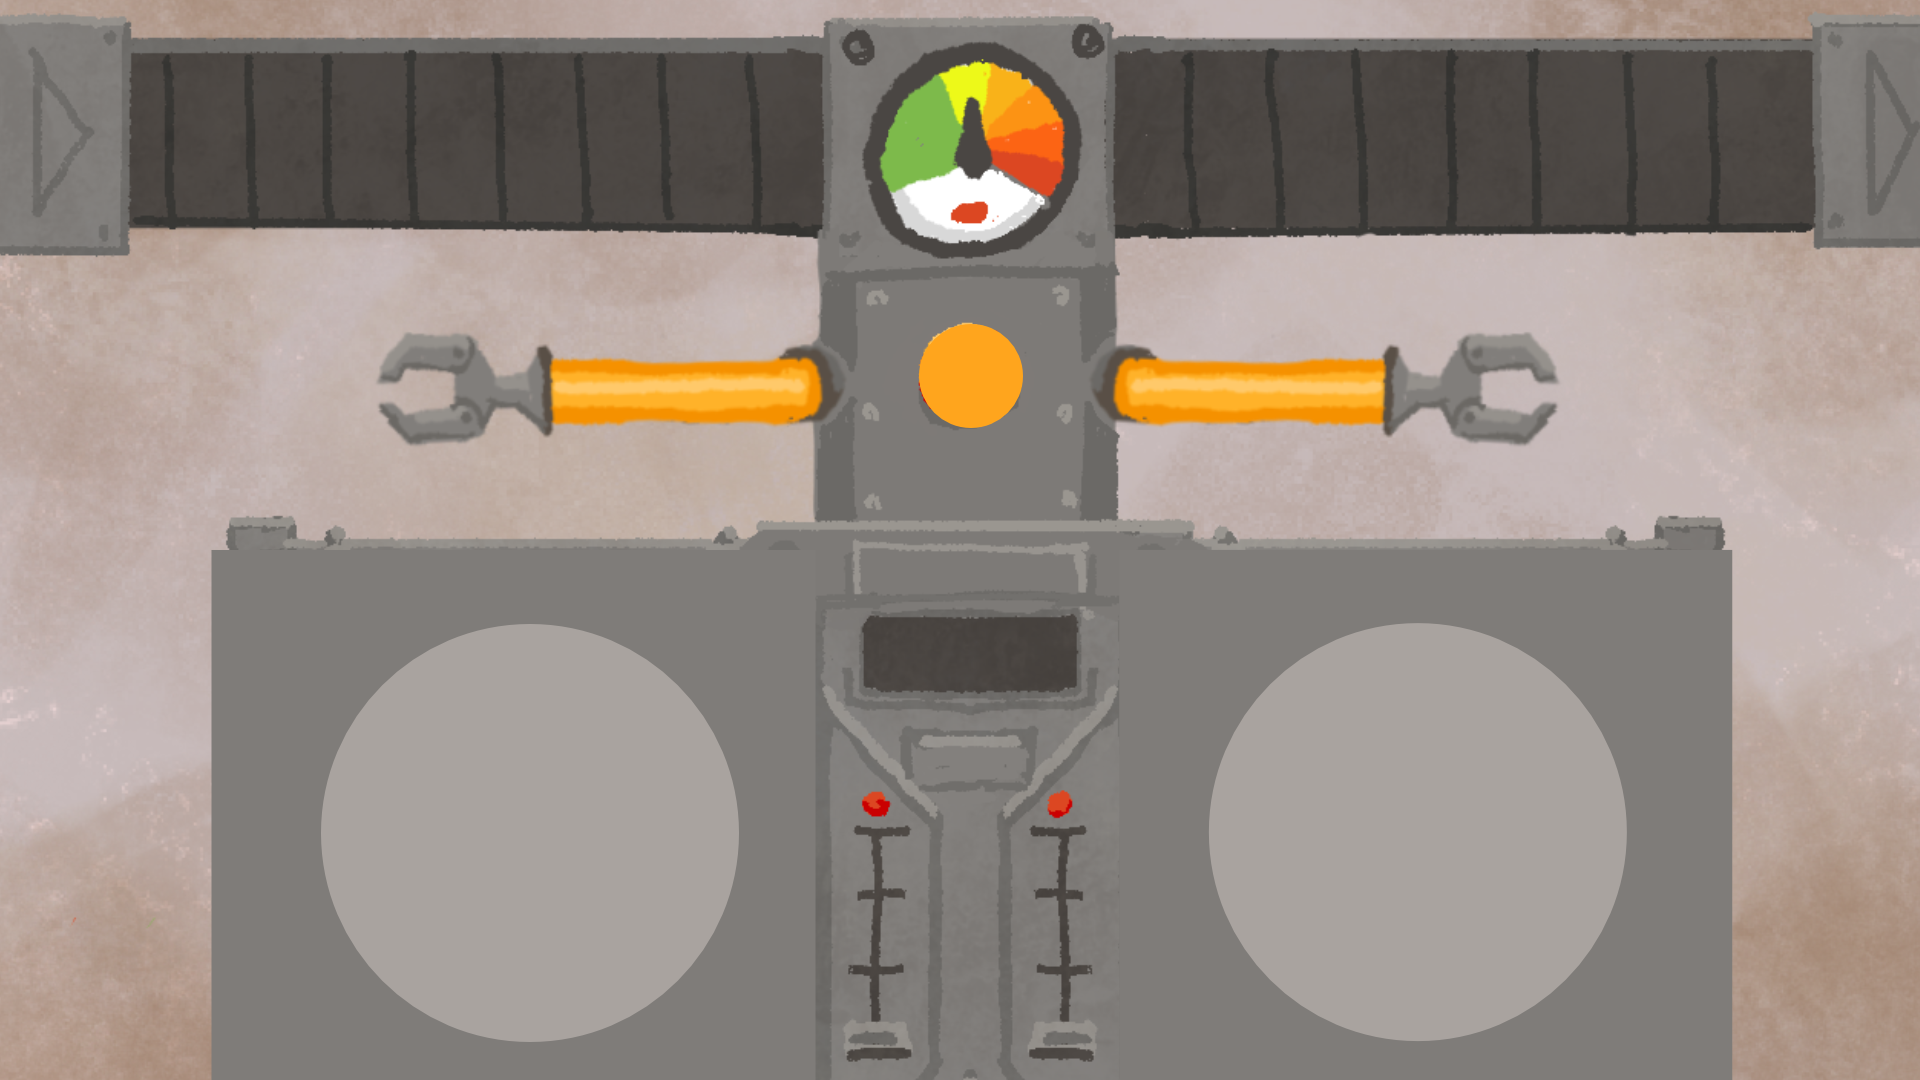
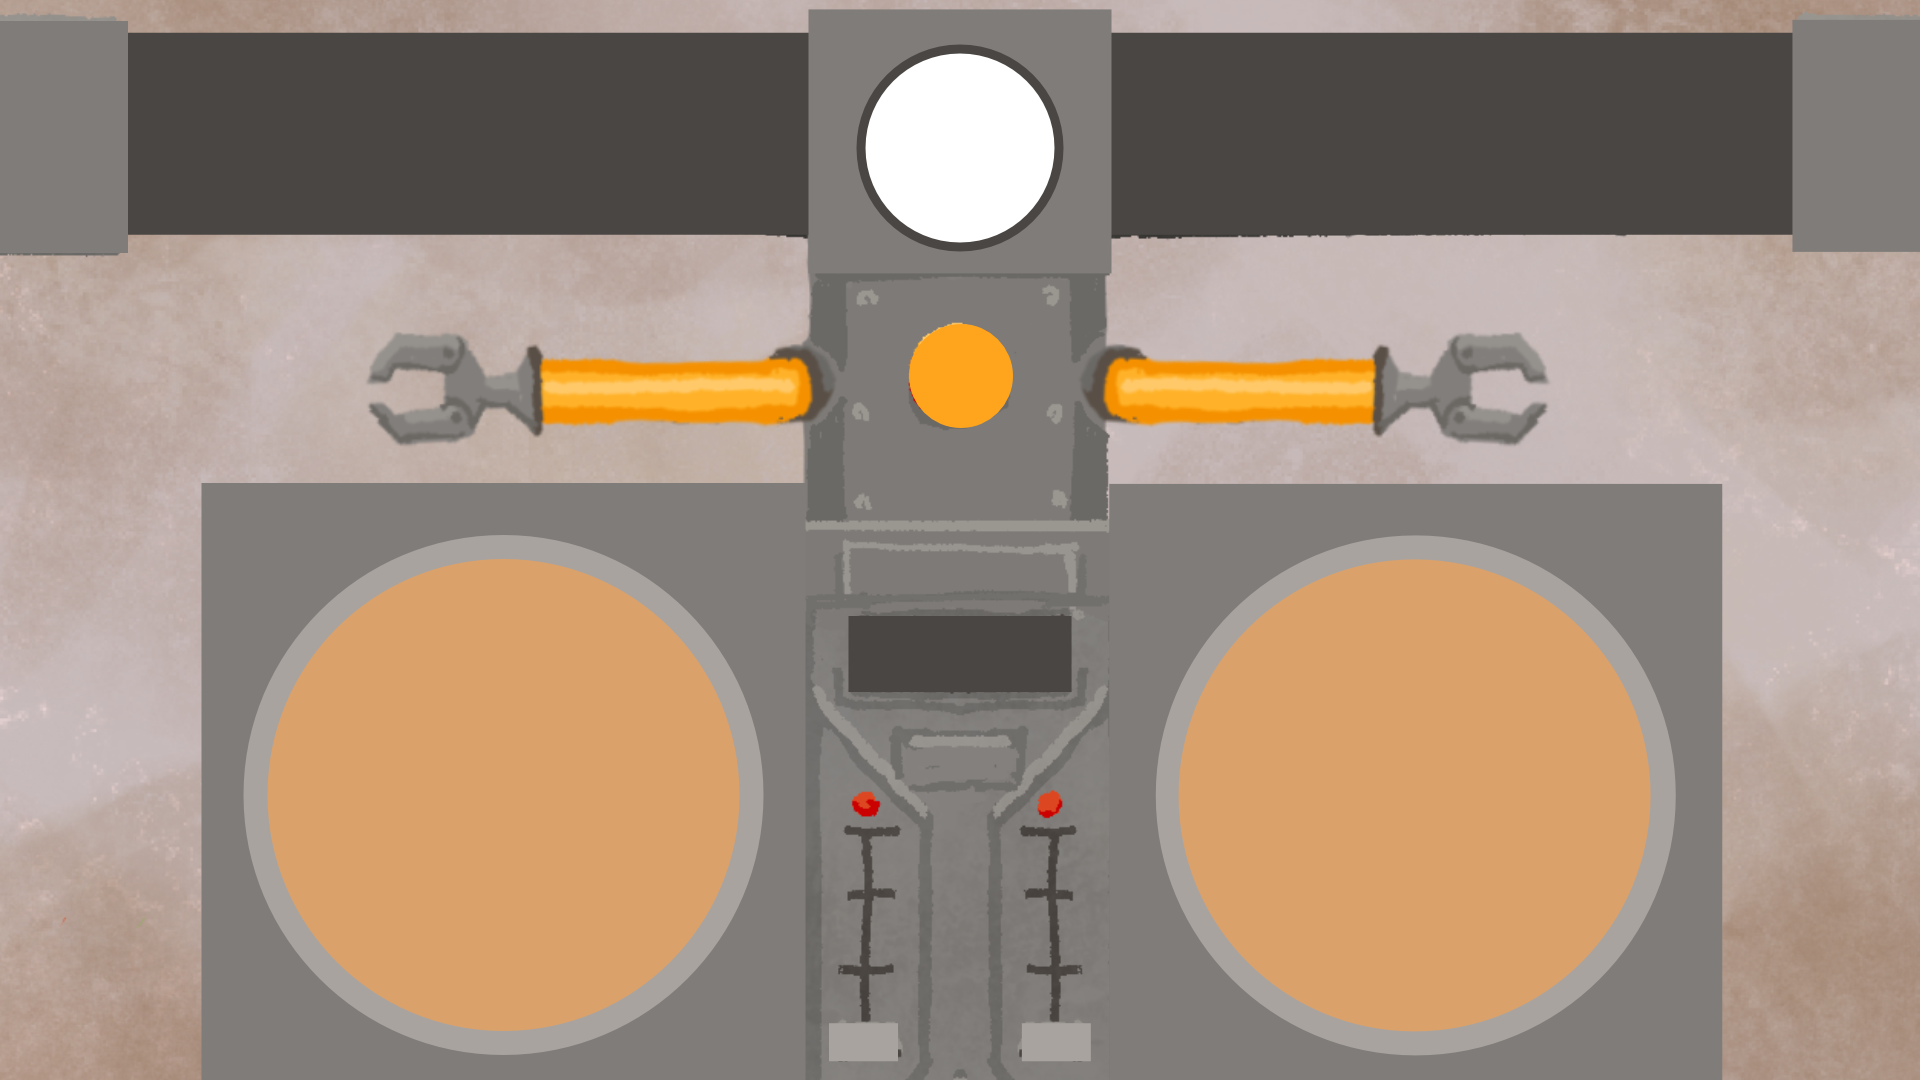
Added trash/serve buttons (change to good ones when i remember) and updated everything to work with the good assets

diff --git a/src/main.c b/src/main.c
@@ -55,7 +55,7 @@ typedef struct {
   size_t capacity;
 } Toppings;
 
-#define PIZZA_RADIUS 209
+#define PIZZA_RADIUS 236
 #define PIZZA_BASE_ROTATION_SPEED 31.415 * (PI / 180)
 
 typedef struct {
@@ -137,6 +137,20 @@ int max_active_orders = 1;
 Texture2D backgroundTex;
 Texture2D speedControllerTex;
 
+Texture2D pizzaBaseImg;
+
+
+#define INGREDIENT_SCALE 0.3;
+Texture2D mushroomImg;
+Texture2D oliveImg;
+Texture2D pepperoniImg;
+
+Texture2D tossButtonImg;
+Texture2D serverButtonImg;
+
+Texture2D foregroundConveyorImg;
+Texture2D gameTimePointer;
+
 bool draggingLeftCtrl = false;
 bool draggingRightCtrl = false;
 
@@ -150,16 +164,30 @@ int main()
   backgroundTex = LoadTexture(BACKGROUND_IMG);
   speedControllerTex = LoadTexture(SPEED_CONTROLLER_IMG);
 
+  pizzaBaseImg = LoadTexture(PIZZA_BASE_IMG);
+  mushroomImg = LoadTexture(MUSHROOM_IMG);
+  oliveImg = LoadTexture(OLIVE_IMG);
+  pepperoniImg = LoadTexture(PEPPERONI_IMG);
+
+  tossButtonImg = LoadTexture(TOSS_BUTTON_IMG);
+  serverButtonImg = LoadTexture(SERVER_BUTTON_IMG);
+
+  foregroundConveyorImg = LoadTexture(FOREGROUND_CONVEYOR_BELT);
+  gameTimePointer = LoadTexture(GAME_TIME_POINTER);
+
+
+
+
   for (size_t i = 0; i < ARRAY_LEN(rotators); i++) {
     rotators[i].rotation_speed = PIZZA_BASE_ROTATION_SPEED;
   }
   rotators[0].position = (Vector2){
-    .x = 529,
-    .y = 832
+    .x = 503,
+    .y = 795
   };
   rotators[1].position = (Vector2){
-    .x = 1419,
-    .y = 832
+    .x = 1415,
+    .y = 795
   };
 
   
@@ -183,6 +211,8 @@ int main()
 
 	return 0;
 }
+
+float ptrRotation = 0;
 
 static void UpdateDrawFrame(void)
 {
@@ -298,8 +328,71 @@ static void UpdateDrawFrame(void)
     ClearBackground(WHITE);
     DrawTexture(backgroundTex, 0, 0, WHITE);
 
-    // Flag
-    
+    DrawTexture(foregroundConveyorImg, 0, 0, WHITE);
+    DrawTexturePro(gameTimePointer, (Rectangle){0,0,27,95},(Rectangle){960, 148, 27, 95}, (Vector2){13, 80}, ptrRotation, WHITE);
+    ptrRotation++;
+
+    DrawTexture(tossButtonImg, 5, 971, WHITE);
+    DrawTexture(serverButtonImg, 5, 865, WHITE);
+    DrawTexture(tossButtonImg, 1724, 971, WHITE);
+    DrawTexture(serverButtonImg, 1724, 865, WHITE);
+
+    Rectangle leftTossButton = {5, 971, 191, 104};
+    Rectangle rightTossButton = {1724, 971, 191, 104};
+    Rectangle leftServeButton = {5, 865, 191, 104};
+    Rectangle rightServeButton = {1724, 865, 191, 104};
+
+    if (IsMouseButtonPressed(0) && CheckCollisionPointRec(mouse_pos, leftTossButton)) {
+        pizzas.items[0] = (Pizza){
+        .number_of_slices = 6,
+        .order_index = orders.count,
+        .rotation = 0,
+        .position = rotators[0].position,
+        .tex = LoadRenderTexture(PIZZA_RADIUS*2, PIZZA_RADIUS*2),
+        .toppings = {0}, 
+        .delivered = false,
+      };
+    }
+
+    if (IsMouseButtonPressed(0) && CheckCollisionPointRec(mouse_pos, rightTossButton)) {
+        pizzas.items[1] = (Pizza){
+        .number_of_slices = 6,
+        .order_index = orders.count,
+        .rotation = 0,
+        .position = rotators[1].position,
+        .tex = LoadRenderTexture(PIZZA_RADIUS*2, PIZZA_RADIUS*2),
+        .toppings = {0}, 
+        .delivered = false,
+      };
+    }
+    if (IsMouseButtonPressed(0) && CheckCollisionPointRec(mouse_pos, leftServeButton)) {
+
+        // Change later to score based on orders.
+
+        pizzas.items[0] = (Pizza){
+        .number_of_slices = 6,
+        .order_index = orders.count,
+        .rotation = 0,
+        .position = rotators[0].position,
+        .tex = LoadRenderTexture(PIZZA_RADIUS*2, PIZZA_RADIUS*2),
+        .toppings = {0}, 
+        .delivered = false,
+      };
+    }
+    if (IsMouseButtonPressed(0) && CheckCollisionPointRec(mouse_pos, rightServeButton)) {
+
+        // Change later to score based on orders.
+
+        pizzas.items[1] = (Pizza){
+        .number_of_slices = 6,
+        .order_index = orders.count,
+        .rotation = 0,
+        .position = rotators[1].position,
+        .tex = LoadRenderTexture(PIZZA_RADIUS*2, PIZZA_RADIUS*2),
+        .toppings = {0}, 
+        .delivered = false,
+      };
+    }
 
 
  
@@ -356,26 +449,30 @@ static void UpdateDrawFrame(void)
       BeginTextureMode(pizzas.items[i].tex); {
         ClearBackground(BLANK);
 
-        DrawCircle(PIZZA_RADIUS, PIZZA_RADIUS, PIZZA_RADIUS, RED);
+        //DrawCircle(PIZZA_RADIUS, PIZZA_RADIUS, PIZZA_RADIUS, RED);
+        DrawTexture(pizzaBaseImg, 0, 0, WHITE);
         for (size_t j = 1; j <= pizzas.items[i].number_of_slices; j++) {
           DrawLine(PIZZA_RADIUS, PIZZA_RADIUS, PIZZA_RADIUS + PIZZA_RADIUS * cosf(j*2*PI/pizzas.items[i].number_of_slices), PIZZA_RADIUS + PIZZA_RADIUS * sinf(j*2*PI/pizzas.items[i].number_of_slices), BLACK);
         }
 
-        for (size_t j = 0; j < pizzas.items[i].toppings.count; j++) {
-          Color topping_color = BLANK;
+         for (size_t j = 0; j < pizzas.items[i].toppings.count; j++) {
+          Texture2D toppingTexture;
           switch (pizzas.items[i].toppings.items[j].type) {
-            case TOPPING_MUSHROOM: topping_color = BEIGE; break;
-            case TOPPING_OLIVE: topping_color = DARKGREEN; break;
-            case TOPPING_PEPPERONI: topping_color = MAROON; break;
-            default: assert(false && "unkown type of topping");
+            case TOPPING_NONE: break;
+            case TOPPING_MUSHROOM: toppingTexture = mushroomImg; break;
+            case TOPPING_OLIVE: toppingTexture = oliveImg; break;
+            case TOPPING_PEPPERONI: toppingTexture = pepperoniImg; break;
+            default: assert(false && "unknown topping to render");
           }
+          float targetWidth = toppingTexture.width * INGREDIENT_SCALE;
+          float targetHeight = toppingTexture.height * INGREDIENT_SCALE;
           Rectangle rec = {
             .x = PIZZA_RADIUS + pizzas.items[i].toppings.items[j].offset_from_center * cosf(pizzas.items[i].toppings.items[j].rotation),
             .y = PIZZA_RADIUS + pizzas.items[i].toppings.items[j].offset_from_center * sinf(pizzas.items[i].toppings.items[j].rotation),
-            .width = 18,
-            .height = 18,
+            .width = targetWidth,
+            .height = targetHeight,
           };
-          DrawRectanglePro(rec, (Vector2){.x = 9, .y = 9}, pizzas.items[i].toppings.items[j].rotation * RAD2DEG, topping_color);
+          DrawTexturePro(toppingTexture, (Rectangle){0,0, toppingTexture.width, toppingTexture.height},rec, (Vector2){.x = targetWidth / 2, .y = targetHeight / 2}, pizzas.items[i].toppings.items[j].rotation * RAD2DEG, WHITE);
         }
       } EndTextureMode();
 
@@ -407,16 +504,20 @@ static void UpdateDrawFrame(void)
     }
 
     if (topping_selected != TOPPING_NONE) {
-      Color topping_color = BLANK;
+      Texture2D toppingTexture;
       switch (topping_selected) {
         case TOPPING_NONE: break;
-        case TOPPING_MUSHROOM: topping_color = BEIGE; break;
-        case TOPPING_OLIVE: topping_color = DARKGREEN; break;
-        case TOPPING_PEPPERONI: topping_color = MAROON; break;
+        case TOPPING_MUSHROOM: toppingTexture = mushroomImg; break;
+        case TOPPING_OLIVE: toppingTexture = oliveImg; break;
+        case TOPPING_PEPPERONI: toppingTexture = pepperoniImg; break;
         default: assert(false && "unknown topping to render");
       }
-      DrawRectangle(mouse_pos.x-18/2, mouse_pos.y-18/2, 18, 18, topping_color);
-      DrawRectangleLines(mouse_pos.x-18/2, mouse_pos.y-18/2, 18, 18, BLACK);
+      //DrawRectangle(mouse_pos.x-18/2, mouse_pos.y-18/2, 18, 18, topping_color);
+      float targetWidth = toppingTexture.width * INGREDIENT_SCALE;
+      float targetHeight = toppingTexture.height * INGREDIENT_SCALE;
+      Rectangle targetRect = {mouse_pos.x - targetWidth / 2, mouse_pos.y - targetHeight / 2, targetWidth, targetHeight};
+      DrawTexturePro(toppingTexture, (Rectangle){0,0, toppingTexture.width, toppingTexture.height}, targetRect, (Vector2){0,0}, 0, WHITE);
+      
     }
   } EndDrawing();
 }

diff --git a/src/assets.h b/src/assets.h
@@ -1,10 +1,20 @@
 #ifndef ASSETS_H_
 #define ASSETS_H_
 
+
 #define ASSETS_DIR "assets/"
 
-#define BACKGROUNDIMG ASSETS_DIR "background.png"
-#define SPEEDCONTROLLERIMG ASSETS_DIR "speed-control-slider.png"
+#define BACKGROUND_IMG ASSETS_DIR "background.png"
+#define SPEED_CONTROLLER_IMG ASSETS_DIR "speed-control-slider.png"
+#define PEPPERONI_IMG ASSETS_DIR "pepperoni.png"
+#define MUSHROOM_IMG ASSETS_DIR "mushroom.png"
+#define OLIVE_IMG ASSETS_DIR "olive.png"
+#define PIZZA_BASE_IMG ASSETS_DIR "Pizza.png"
+#define TOSS_BUTTON_IMG ASSETS_DIR "toss_button.png"
+#define SERVER_BUTTON_IMG ASSETS_DIR "serve_button.png"
+#define FOREGROUND_CONVEYOR_BELT ASSETS_DIR "foreground-conveyor-belt.png"
+#define GAME_TIME_POINTER ASSETS_DIR "game-time-pointer.png"
+
 
 #endif // ASSETS_H_
 
